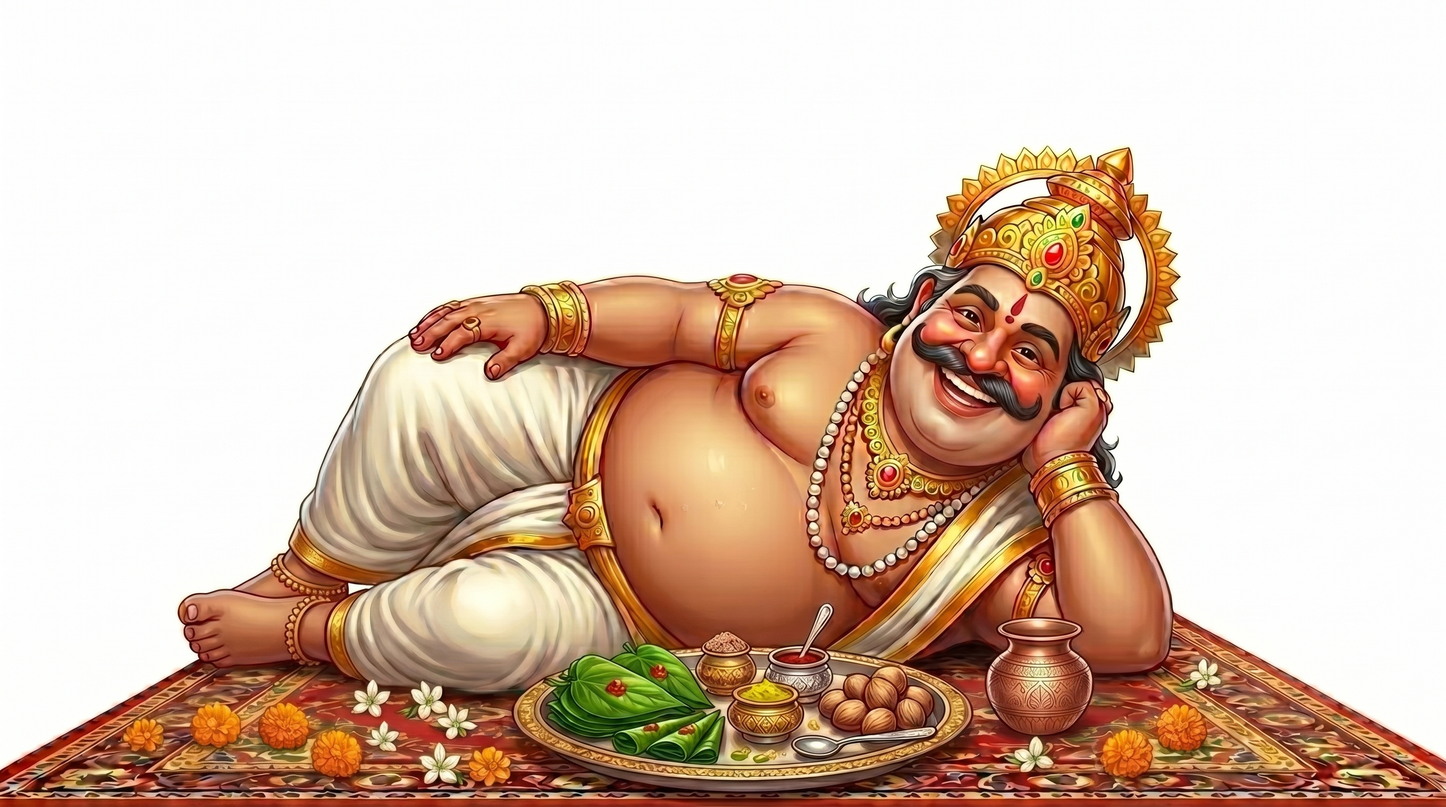
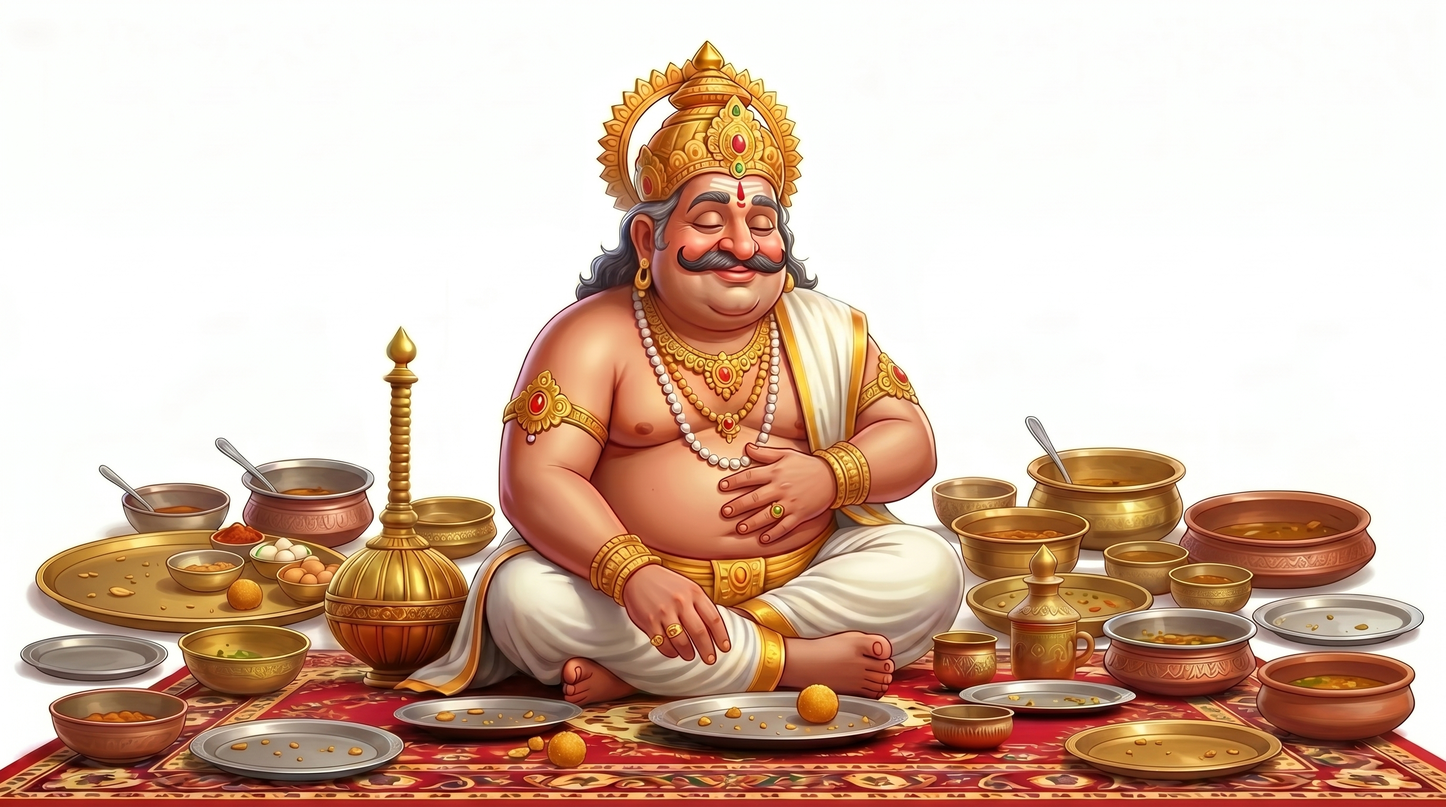
*

diff --git a/bheemasena/src/components/hero/HeroVideo.tsx b/bheemasena/src/components/hero/HeroVideo.tsx
@@ -140,7 +140,7 @@ export function HeroVideo() {
             marginTop: 24,
             fontSize: 'clamp(13px, 1.3vw, 16px)',
             lineHeight: 1.7,
-            color: 'rgba(107,101,92,0.85)',
+            color: 'var(--color-ink)',
             maxWidth: 520,
             letterSpacing: '0.02em',
             textTransform: 'none',
